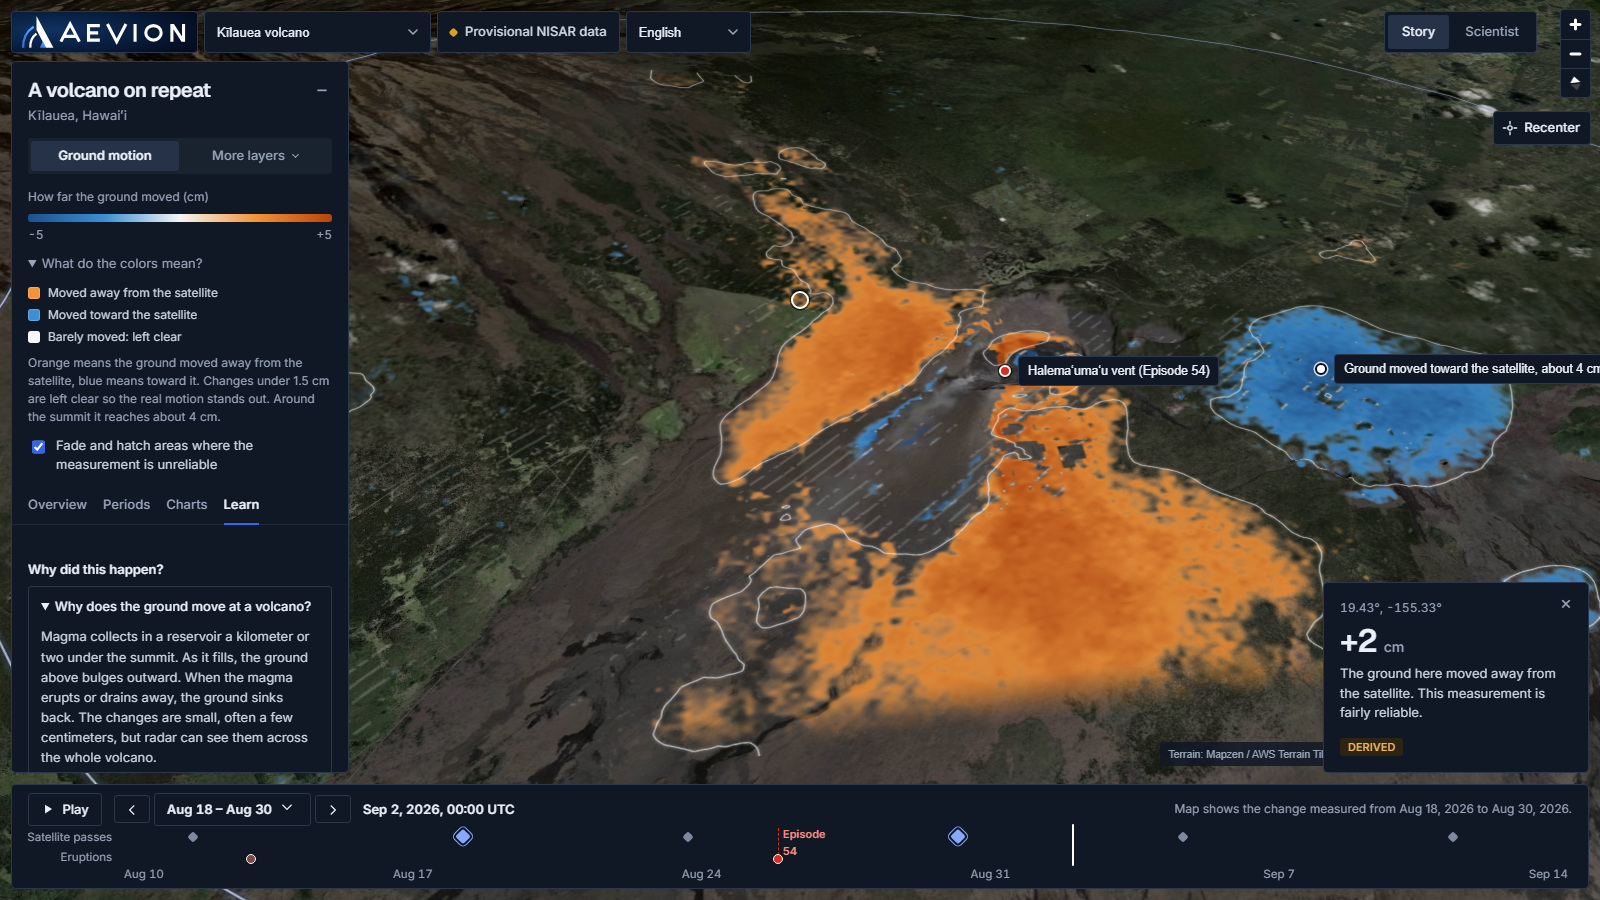
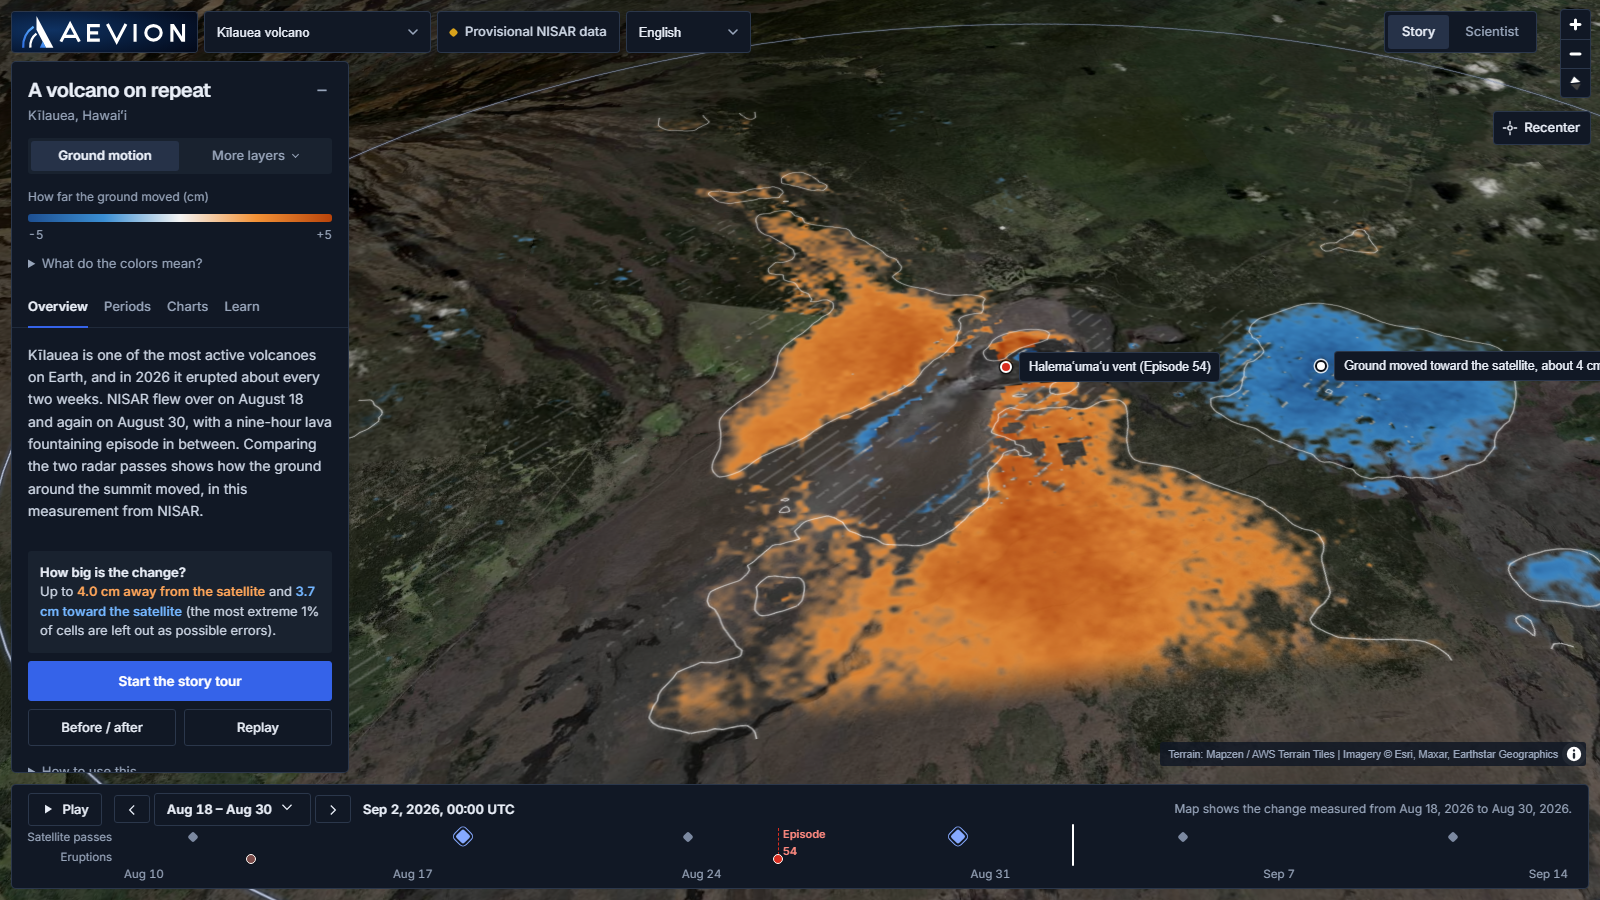
Final screenshots, checks and decision log

diff --git a/docs/ui-overhaul/DECISIONS.md b/docs/ui-overhaul/DECISIONS.md
@@ -18,3 +18,6 @@ One line each: what was chosen and why.
 - The opening splash is one overlay mounted by App: it holds at least 1.0s so the pixel half finishes, fades for 0.35s once the first story is ready, and never replays. Reduced motion shows the finished logo for 0.3s and removes it with no fade.
 - The map fades in on its first idle, with a 2.5s fallback so a slow or failing tile never leaves it hidden. A data attribute is used because React's className updates would remove a class.
 - Extra map overlays already fade with the timeline cursor (their opacity is driven per frame), so no separate overlay fade was added; changing it would touch MapView's replay logic.
+- The /code-review skill returned no findings in 11s (it appeared not to run against the worktree), so I reviewed the new files by hand instead: menu keyboard and focus handling, splash/ready wiring, theme persistence, i18n fallback to English for the new keys, and nested backdrop-filter limits. That review found and fixed the see-through period and layers menus and the thin reading cards.
+- Screenshots in docs/ui-overhaul/screenshots: before/ (old UI, dark), after/ (new UI, both themes), states/ (tour, period menu, inspector, layers, charts, methods dialog, both themes), loading/ (splash frames, skeleton, reduced motion), checks/ (menu, language and 1280px window).
+- Light panels use their own contrast inks (away #a8470a, toward #1d62a8, status inks) checked by eye on white; the map and the colour swatches keep the fixed data colours.

diff --git a/docs/ui-overhaul/screenshots/README.md b/docs/ui-overhaul/screenshots/README.md
@@ -1,0 +1,10 @@
+# Screenshots
+
+Taken at 1600 x 900 with `docs/ui-overhaul/checks/*.mjs` (Playwright driving Edge) against a dev server.
+Map tiles load over the network and the opening flight takes a while in software rendering, so a few frames catch the camera mid-move.
+
+- `before/`: the old UI at commit `ec7a88b` (dark only, it had no light theme), both viewers, Story and Scientist.
+- `after/`: the new UI, both viewers, Story and Scientist, dark and light.
+- `states/`: tour card, period menu, Scientist inspector, layers tab, charts tab and the methods dialog, dark and light.
+- `loading/`: opening splash frames (pixel build and fade), the story-switch skeleton, and the reduced-motion splash.
+- `checks/`: the upward story and language menus, the Assamese dock with its machine-translation note, and a 1280 x 720 window.
